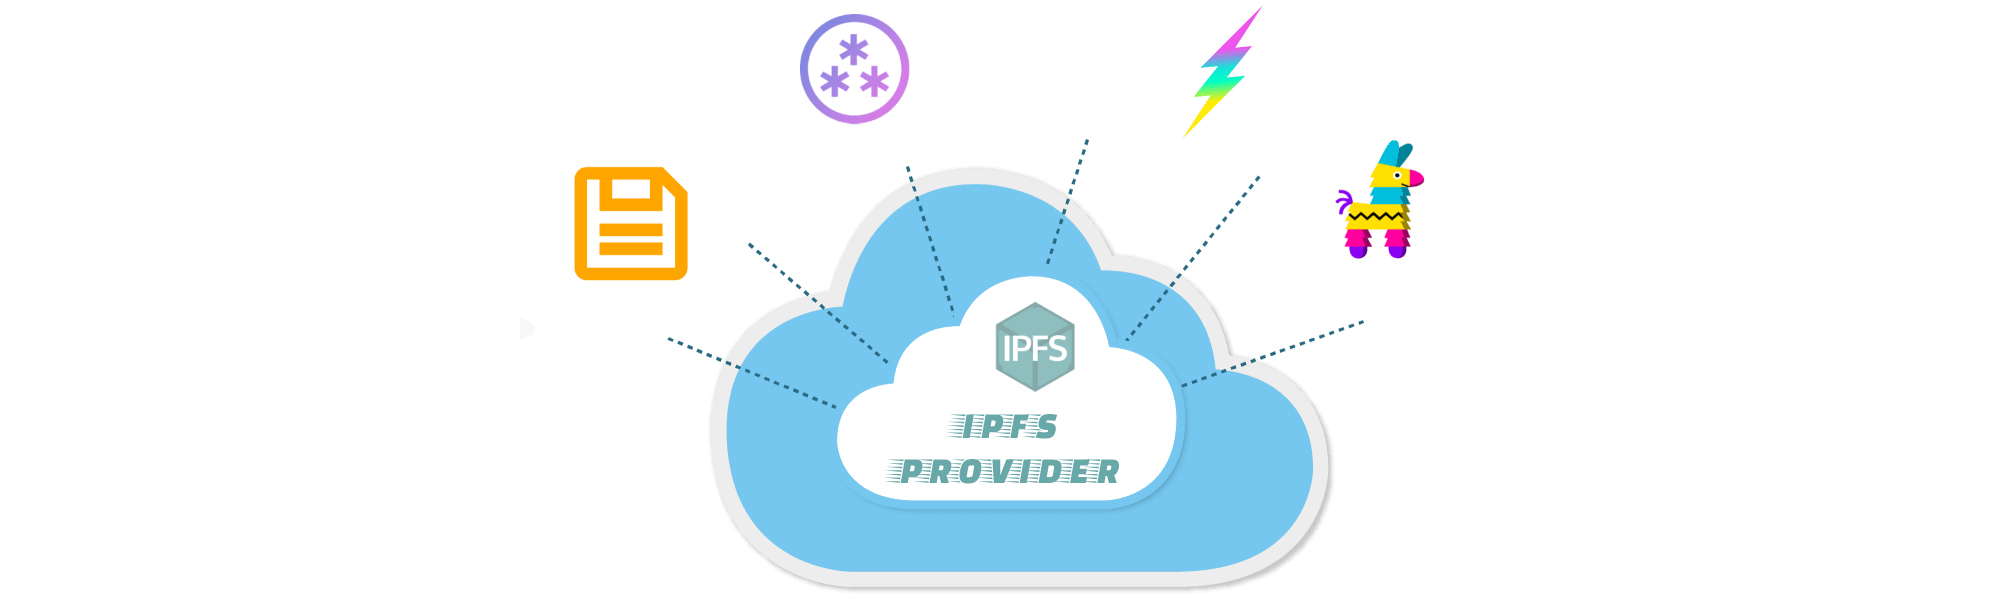
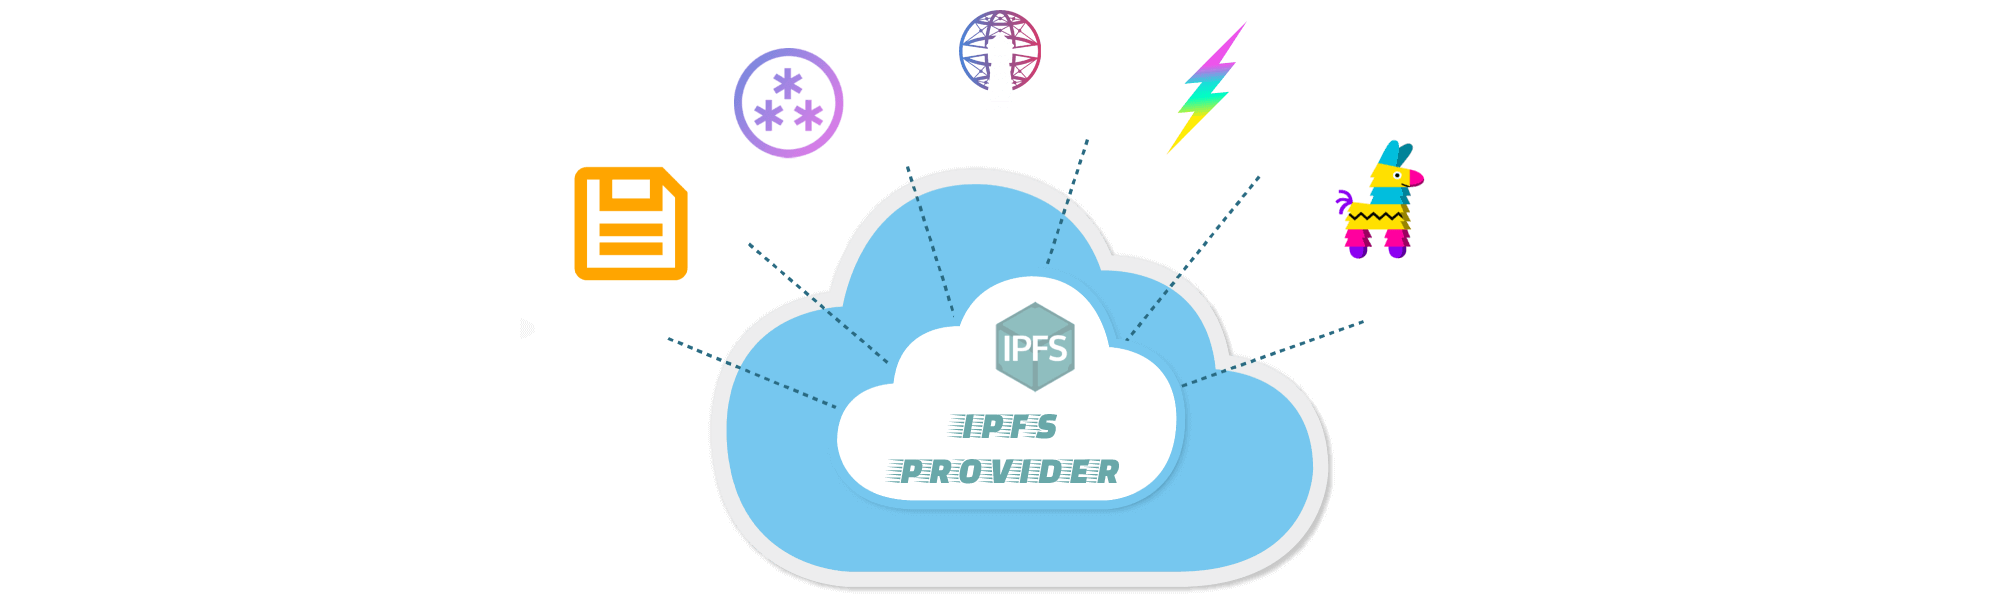
add: new storage provider lighthouse

Changed region(s): [[0.341, 0.0, 0.527, 0.2776], [0.589, 0.0617, 0.62, 0.2159]]

diff --git a/test/index.js b/test/index.js
@@ -14,7 +14,8 @@ fs.readFile(join(__dirname, "..", "banner.png"), async (err, data) => {
     !process.env.FILEBASE_KEY &&
     !process.env.PINATA_JWT &&
     !process.env.FLEEK_KEY &&
-    !process.env.WEB3_TOKEN
+    !process.env.WEB3_TOKEN &&
+    !process.env.LIGHTHOUSE_TOKEN
   ) {
     console.log("🆘 ERROR:", "Create .env file");
     return;
@@ -124,5 +125,29 @@ fs.readFile(join(__dirname, "..", "banner.png"), async (err, data) => {
     );
   } catch (err) {
     console.log("🆘 WEB3:", err);
+  }
+
+  try {
+    const url = await uploadFile.lighthouse(
+      {
+        token: process.env.LIGHTHOUSE_TOKEN,
+      },
+      {
+        hash: "banner",
+        ext: ".png",
+        buffer: data,
+      }
+    );
+    console.log("✅ LIGHTHOUSE:", url);
+    await deleteFile.lighthouse(
+      {
+        token: process.env.LIGHTHOUSE_TOKEN,
+      },
+      {
+        url,
+      }
+    );
+  } catch (err) {
+    console.log("🆘 LIGHTHOUSE:", err);
   }
 });

diff --git a/providers/lighthouse.js b/providers/lighthouse.js
@@ -1,0 +1,33 @@
+const axios = require("axios");
+const FormData = require("form-data");
+const multiformats = require("multiformats/cid");
+
+module.exports = {
+  uploadFile: async function (
+    connect = { token: "" },
+    file = { hash: "", ext: "", stream: "", buffer: "" }
+  ) {
+    const data = new FormData();
+    data.append("file", file.stream || file.buffer, {
+      filename: `${file.hash}${file.ext}`,
+    });
+
+    const config = {
+      method: "post",
+      url: "https://node.lighthouse.storage/api/v0/add",
+      headers: {
+        Authorization: `Bearer ${connect.token}`,
+        ...data.getHeaders(),
+      },
+      data: data,
+    };
+
+    const res = await axios(config);
+
+    const cid = multiformats.CID.parse(res.data["Hash"]);
+    return Promise.resolve(`https://${cid.toV1().toString()}.ipfs.dweb.link`);
+  },
+  deleteFile: async function () {
+    return Promise.resolve();
+  },
+};

diff --git a/lib/delete.js b/lib/delete.js
@@ -1,6 +1,7 @@
+const { deleteFile: lighthouse } = require("../providers/lighthouse.js");
 const { deleteFile: filebase } = require("../providers/filebase.js");
 const { deleteFile: pinata } = require("../providers/pinata.js");
 const { deleteFile: fleek } = require("../providers/fleek.js");
 const { deleteFile: web3 } = require("../providers/web3.js");
 
-module.exports = { filebase, pinata, fleek, web3 };
+module.exports = { lighthouse, filebase, pinata, fleek, web3 };

diff --git a/lib/upload.js b/lib/upload.js
@@ -1,6 +1,7 @@
+const { uploadFile: lighthouse } = require("../providers/lighthouse.js");
 const { uploadFile: filebase } = require("../providers/filebase.js");
 const { uploadFile: pinata } = require("../providers/pinata.js");
 const { uploadFile: fleek } = require("../providers/fleek.js");
 const { uploadFile: web3 } = require("../providers/web3.js");
 
-module.exports = { filebase, pinata, fleek, web3 };
+module.exports = { lighthouse, filebase, pinata, fleek, web3 };

diff --git a/README.md b/README.md
@@ -6,6 +6,219 @@
 - [x] Fleek [<a href="https://fleek.co">fleek.co</a>]
 - [x] Web3 [<a href="https://web3.storage">web3.storage</a>]
 - [x] Pinata [<a href="https://pinata.cloud">pinata.cloud</a>]
+- [x] Lighthouse [<a href="https://lighthouse.storage">lighthouse.storage</a>]
+
+## Examples
+
+### FILEBASE
+
+```javascript
+fs.readFile(join(__dirname, "..", "banner.png"), async (err, data) => {
+  if (err) {
+    console.log("🆘 ERROR:", err);
+    return;
+  }
+
+  if (!process.env.FILEBASE_KEY) {
+    console.log("🆘 ERROR:", "Create .env file");
+    return;
+  }
+
+  try {
+    const url = await uploadFile.filebase(
+      {
+        key: process.env.FILEBASE_KEY,
+        secret: process.env.FILEBASE_SECRET,
+        bucket: process.env.FILEBASE_BUCKET,
+      },
+      {
+        hash: "banner",
+        ext: ".png",
+        buffer: data,
+      }
+    );
+    console.log("✅ FILEBASE:", url);
+    await deleteFile.filebase(
+      {
+        key: process.env.FILEBASE_KEY,
+        secret: process.env.FILEBASE_SECRET,
+        bucket: process.env.FILEBASE_BUCKET,
+      },
+      {
+        hash: "banner",
+        ext: ".png",
+      }
+    );
+  } catch (err) {
+    console.log("🆘 FILEBASE:", err);
+  }
+});
+```
+
+### PINATA
+
+```javascript
+fs.readFile(join(__dirname, "..", "banner.png"), async (err, data) => {
+  if (err) {
+    console.log("🆘 ERROR:", err);
+    return;
+  }
+
+  if (!process.env.PINATA_JWT) {
+    console.log("🆘 ERROR:", "Create .env file");
+    return;
+  }
+
+  try {
+    const url = await uploadFile.pinata(
+      {
+        jwt: process.env.PINATA_JWT,
+      },
+      {
+        hash: "banner",
+        ext: ".png",
+        buffer: data,
+      }
+    );
+    console.log("✅ PINATA:", url);
+    await deleteFile.pinata(
+      {
+        jwt: process.env.PINATA_JWT,
+      },
+      {
+        url,
+      }
+    );
+  } catch (err) {
+    console.log("🆘 PINATA:", err);
+  }
+});
+```
+
+### FLEEK
+
+```javascript
+fs.readFile(join(__dirname, "..", "banner.png"), async (err, data) => {
+  if (err) {
+    console.log("🆘 ERROR:", err);
+    return;
+  }
+
+  if (!process.env.FLEEK_KEY) {
+    console.log("🆘 ERROR:", "Create .env file");
+    return;
+  }
+
+  try {
+    const url = await uploadFile.fleek(
+      {
+        key: process.env.FLEEK_KEY,
+        secret: process.env.FLEEK_SECRET,
+        bucket: process.env.FLEEK_BUCKET,
+      },
+      {
+        hash: "banner",
+        ext: ".png",
+        buffer: data,
+      }
+    );
+    console.log("✅ FLEEK:", url);
+    await deleteFile.fleek(
+      {
+        key: process.env.FLEEK_KEY,
+        secret: process.env.FLEEK_SECRET,
+        bucket: process.env.FLEEK_BUCKET,
+      },
+      {
+        hash: "banner",
+        ext: ".png",
+      }
+    );
+  } catch (err) {
+    console.log("🆘 FLEEK:", err);
+  }
+});
+```
+
+### WEB3
+
+```javascript
+fs.readFile(join(__dirname, "..", "banner.png"), async (err, data) => {
+  if (err) {
+    console.log("🆘 ERROR:", err);
+    return;
+  }
+
+  if (!process.env.WEB3_TOKEN) {
+    console.log("🆘 ERROR:", "Create .env file");
+    return;
+  }
+
+  try {
+    const url = await uploadFile.web3(
+      {
+        token: process.env.WEB3_TOKEN,
+      },
+      {
+        hash: "banner",
+        ext: ".png",
+        buffer: data,
+      }
+    );
+    console.log("✅ WEB3:", url);
+    await deleteFile.web3(
+      {
+        token: process.env.WEB3_TOKEN,
+      },
+      {
+        url,
+      }
+    );
+  } catch (err) {
+    console.log("🆘 WEB3:", err);
+  }
+});
+```
+
+### LIGHTHOUSE
+
+```javascript
+fs.readFile(join(__dirname, "..", "banner.png"), async (err, data) => {
+  if (err) {
+    console.log("🆘 ERROR:", err);
+    return;
+  }
+
+  if (!process.env.LIGHTHOUSE_TOKEN) {
+    console.log("🆘 ERROR:", "Create .env file");
+    return;
+  }
+
+  try {
+    const url = await uploadFile.lighthouse(
+      {
+        token: process.env.LIGHTHOUSE_TOKEN,
+      },
+      {
+        hash: "banner",
+        ext: ".png",
+        buffer: data,
+      }
+    );
+    console.log("✅ LIGHTHOUSE:", url);
+    await deleteFile.lighthouse(
+      {
+        token: process.env.LIGHTHOUSE_TOKEN,
+      },
+      {
+        url,
+      }
+    );
+  } catch (err) {
+    console.log("🆘 LIGHTHOUSE:", err);
+  }
+});
+```
 
 ---
 
